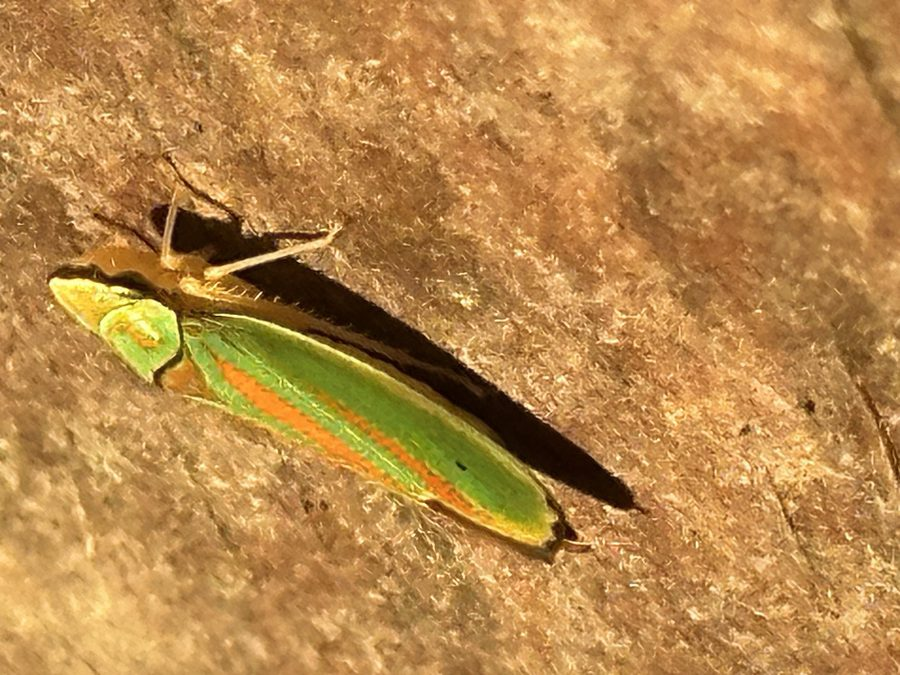
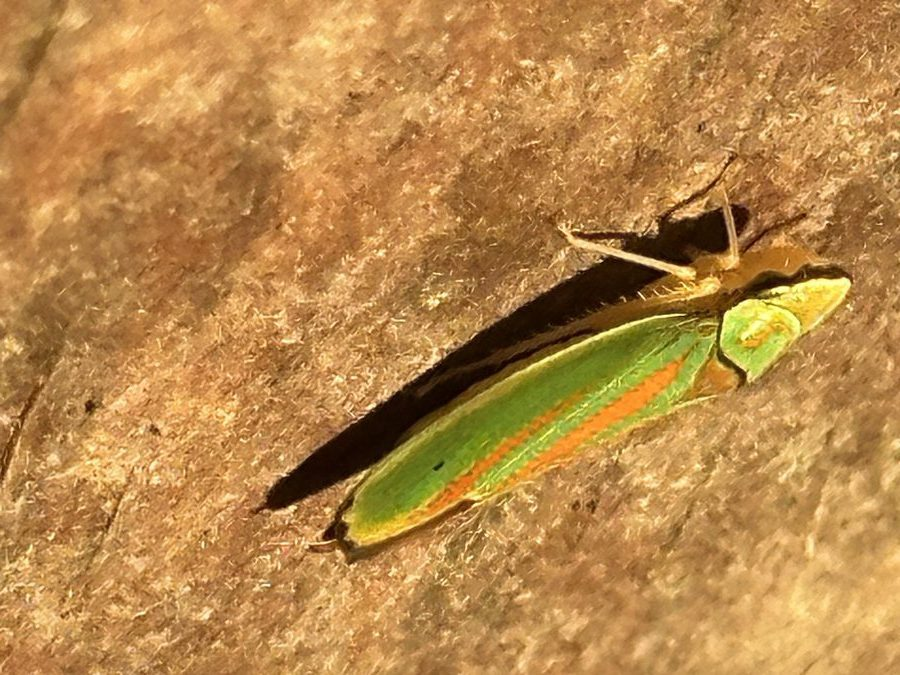
SEO: og:image toegevoegd + beveiligingsheaders (vercel.json)
Geen enkele pagina had een og:image, dus gedeelde links op WhatsApp/
social media toonden geen voorvertoningsafbeelding. Toegevoegd:
insectenfoto op insecten.html, geboortetegel-foto als fallback elders.

Nieuw vercel.json met beveiligingsheaders (CSP, X-Frame-Options,
Referrer-Policy, Permissions-Policy, HSTS) — deze statische site had
nog geen enkele custom header ingesteld.

Losse meegenomen wijzigingen van eerder: gespiegelde rhododendroncicade-
foto, en de listing-links in script.js gecorrigeerd naar de fysieke
(niet-digitale) Etsy-listing waar bekend.

diff --git a/js/script.js b/js/script.js
@@ -53,7 +53,7 @@ const INSECTS = [
   { num: '01', name: 'Citroenvlinder', latin: 'Gonepteryx rhamni', text: 'Rustend op een roze anjer, elke schub scherp vastgelegd.', img: 'images/insecten/insect-03.jpg', url: 'https://www.etsy.com/listing/4557224307/brimstone-butterfly-macro-photography' },
   { num: '02', name: 'Bruinrode heidelibel', latin: 'Sympetrum striolatum', text: 'Doorschijnende vleugels op een takje, in extreem detail.', img: 'images/insecten/insect-02.jpg', url: 'https://www.etsy.com/listing/4557030929/darter-dragonfly-macro-photography-print' },
   { num: '03', name: 'Distelvlinder', latin: 'Vanessa cardui', text: 'Voedend op vlinderstruikbloesem, kleurrijk en scherp.', img: 'images/insecten/insect-01.jpg', url: 'https://www.etsy.com/listing/4556783657/nymphalidae-on-buddleja' },
-  { num: '04', name: 'Geel bandspanner-mot', latin: 'Camptogramma bilineata', text: 'Golvende vleugeltekening, rustend op een blad.', img: 'images/insecten/insect-04.jpg', url: 'https://www.etsy.com/listing/4557346727/yellow-shell-moth-macro-print-digital' },
+  { num: '04', name: 'Geel bandspanner-mot', latin: 'Camptogramma bilineata', text: 'Golvende vleugeltekening, rustend op een blad.', img: 'images/insecten/insect-04.jpg', url: 'https://www.etsy.com/listing/4557245771/yellow-shell-moth-macro-photography' },
   { num: '05', name: 'Roofvlieg', latin: 'Dioctria linearis', text: 'Een roofzuchtige jager, haarscherp op een blad vastgelegd.', img: 'images/insecten/insect-05.jpg', url: 'https://www.etsy.com/listing/4557496358/robber-fly-macro-print-digital-download' },
   { num: '06', name: 'Gestippelde sabelsprinkhaan (nimf)', latin: 'Leptophyes punctatissima', text: 'Doorschijnend groen lijfje op een felle oranje bloem.', img: 'images/insecten/insect-06.jpg', url: 'https://www.etsy.com/listing/4557499998/speckled-bush-cricket-nymph-macro-print' },
   { num: '07', name: 'Oranje zandoogje', latin: 'Pyronia tithonus', text: 'Rustend op een blad, met een lieveheersbeestje op de achtergrond.', img: 'images/insecten/insect-07.jpg', url: 'https://www.etsy.com/listing/4557501948/gatekeeper-butterfly-macro-print-digital' },

diff --git a/index.html b/index.html
@@ -18,7 +18,9 @@
 <meta property="og:title" content="Gridje Design — Zandschilderen & Insectenfotografie">
 <meta property="og:description" content="Gekleurd zand van eigen makelij uit Berkel-Enschot. Zandschilderpakketten, workshops, kinderfeestjes en macrofotografie van insecten.">
 <meta property="og:url" content="https://gridje.nl/">
-<meta name="twitter:card" content="summary">
+<meta property="og:image" content="https://gridje.nl/images/geboortetegel-1-large.jpg">
+<meta name="twitter:card" content="summary_large_image">
+<meta name="twitter:image" content="https://gridje.nl/images/geboortetegel-1-large.jpg">
 <meta name="twitter:title" content="Gridje Design — Zandschilderen & Insectenfotografie">
 <meta name="twitter:description" content="Gekleurd zand van eigen makelij uit Berkel-Enschot. Zandschilderpakketten, workshops, kinderfeestjes en macrofotografie van insecten.">
 <script type="application/ld+json">

diff --git a/bestellen.html b/bestellen.html
@@ -18,7 +18,9 @@
 <meta property="og:title" content="Bestelling afronden — Gridje Design">
 <meta property="og:description" content="Rond je bestelling af bij Gridje Design en verstuur je gegevens per e-mail of WhatsApp.">
 <meta property="og:url" content="https://gridje.nl/bestellen.html">
-<meta name="twitter:card" content="summary">
+<meta property="og:image" content="https://gridje.nl/images/geboortetegel-1-large.jpg">
+<meta name="twitter:card" content="summary_large_image">
+<meta name="twitter:image" content="https://gridje.nl/images/geboortetegel-1-large.jpg">
 <meta name="twitter:title" content="Bestelling afronden — Gridje Design">
 <meta name="twitter:description" content="Rond je bestelling af bij Gridje Design en verstuur je gegevens per e-mail of WhatsApp.">
 <meta name="robots" content="noindex">

diff --git a/insecten.html b/insecten.html
@@ -18,7 +18,9 @@
 <meta property="og:title" content="Insectenfotografie — Gridje Design">
 <meta property="og:description" content="Macrofotografie van insecten door Gridje Design — close-ups van vleugels, facetogen en schubben.">
 <meta property="og:url" content="https://gridje.nl/insecten.html">
-<meta name="twitter:card" content="summary">
+<meta property="og:image" content="https://gridje.nl/images/insecten/insect-01.jpg">
+<meta name="twitter:card" content="summary_large_image">
+<meta name="twitter:image" content="https://gridje.nl/images/insecten/insect-01.jpg">
 <meta name="twitter:title" content="Insectenfotografie — Gridje Design">
 <meta name="twitter:description" content="Macrofotografie van insecten door Gridje Design — close-ups van vleugels, facetogen en schubben.">
 </head>

diff --git a/workshops.html b/workshops.html
@@ -18,7 +18,9 @@
 <meta property="og:title" content="Feestjes & workshops — Gridje Design">
 <meta property="og:description" content="Kinderfeestjes, workshops en geboortetegels bij Gridje Design in Berkel-Enschot.">
 <meta property="og:url" content="https://gridje.nl/workshops.html">
-<meta name="twitter:card" content="summary">
+<meta property="og:image" content="https://gridje.nl/images/geboortetegel-1-large.jpg">
+<meta name="twitter:card" content="summary_large_image">
+<meta name="twitter:image" content="https://gridje.nl/images/geboortetegel-1-large.jpg">
 <meta name="twitter:title" content="Feestjes & workshops — Gridje Design">
 <meta name="twitter:description" content="Kinderfeestjes, workshops en geboortetegels bij Gridje Design in Berkel-Enschot.">
 </head>

diff --git a/webshop.html b/webshop.html
@@ -18,7 +18,9 @@
 <meta property="og:title" content="Webshop — Gridje Design">
 <meta property="og:description" content="Zandschilderpakketten en losse onderdelen van Gridje Design — gratis verzending op alles.">
 <meta property="og:url" content="https://gridje.nl/webshop.html">
-<meta name="twitter:card" content="summary">
+<meta property="og:image" content="https://gridje.nl/images/geboortetegel-1-large.jpg">
+<meta name="twitter:card" content="summary_large_image">
+<meta name="twitter:image" content="https://gridje.nl/images/geboortetegel-1-large.jpg">
 <meta name="twitter:title" content="Webshop — Gridje Design">
 <meta name="twitter:description" content="Zandschilderpakketten en losse onderdelen van Gridje Design — gratis verzending op alles.">
 </head>

diff --git a/contact.html b/contact.html
@@ -18,7 +18,9 @@
 <meta property="og:title" content="Contact — Gridje Design">
 <meta property="og:description" content="Neem contact op met Gridje Design in Berkel-Enschot — per e-mail, telefoon of WhatsApp.">
 <meta property="og:url" content="https://gridje.nl/contact.html">
-<meta name="twitter:card" content="summary">
+<meta property="og:image" content="https://gridje.nl/images/geboortetegel-1-large.jpg">
+<meta name="twitter:card" content="summary_large_image">
+<meta name="twitter:image" content="https://gridje.nl/images/geboortetegel-1-large.jpg">
 <meta name="twitter:title" content="Contact — Gridje Design">
 <meta name="twitter:description" content="Neem contact op met Gridje Design in Berkel-Enschot — per e-mail, telefoon of WhatsApp.">
 </head>
